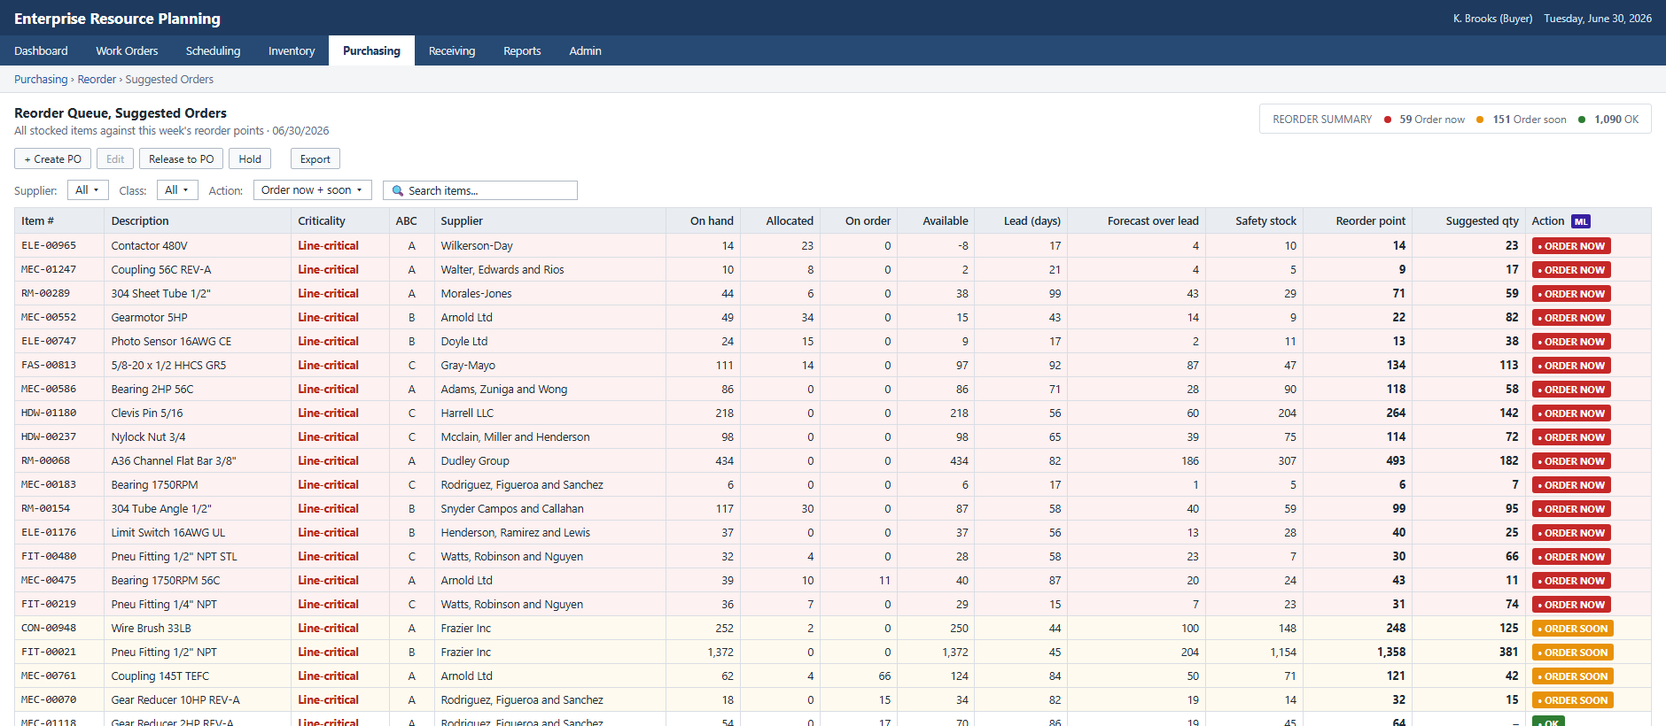
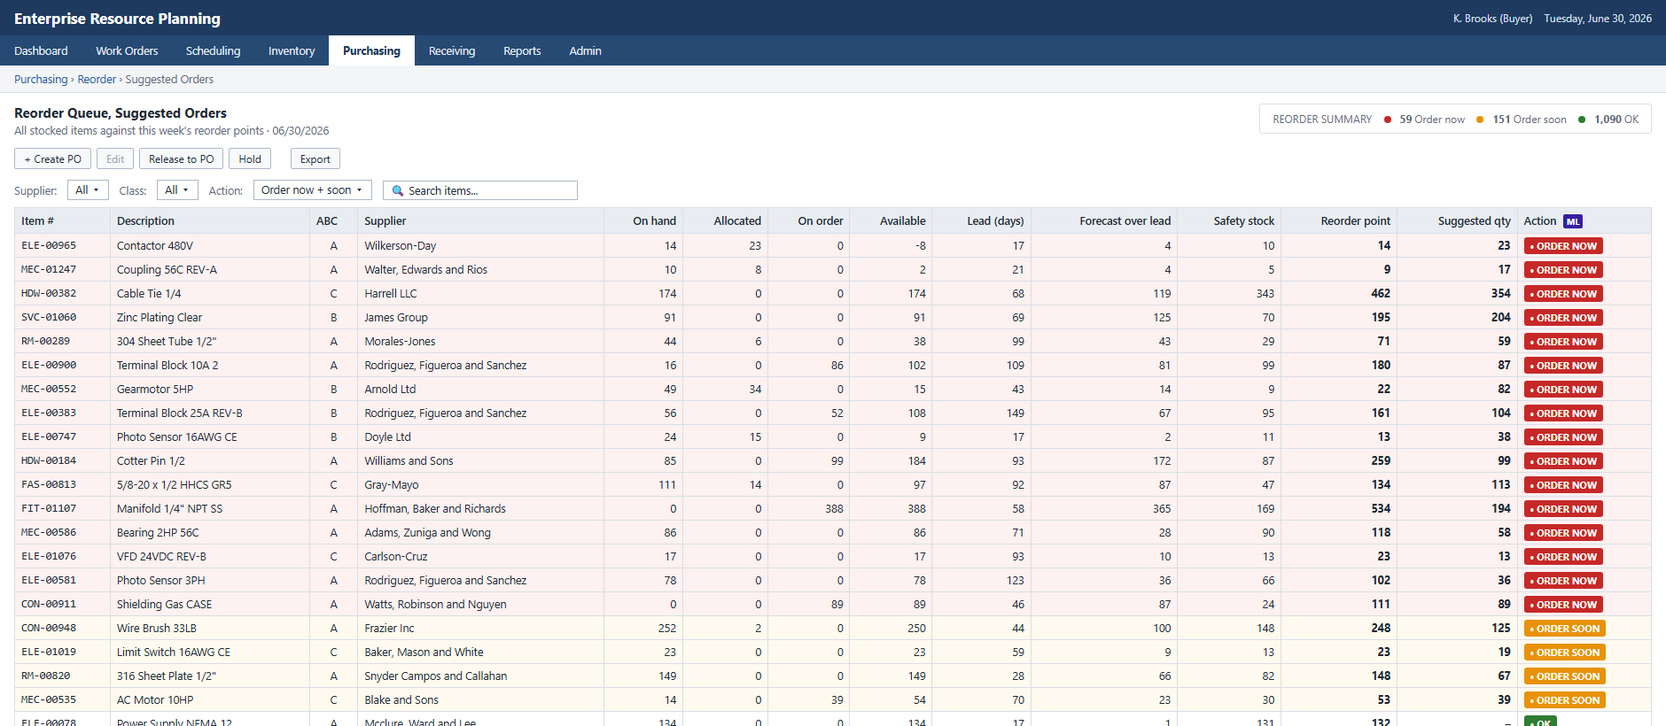
Reorder queue: remove criticality column

diff --git a/docs/index.html b/docs/index.html
@@ -32,7 +32,6 @@
   .badge { color:#fff; font-weight:700; font-size:11px; padding:2px 7px; border-radius:3px; }
   .tag { display:inline-block; border:1px solid #9FB3CC; color:#2458A6; background:#EEF4FB; border-radius:10px;
           padding:0 7px; margin-right:4px; font-size:11px; }
-  .crit { font-weight:700; color:#B42318; } .crit.svc { color:#B54708; }
   .ml { background:#381FA1; color:#fff; font-size:10px; font-weight:700; padding:1px 4px; border-radius:2px; margin-left:4px; }
 </style></head><body>
 <div class="top"><div class="app">Enterprise Resource Planning</div>
@@ -48,8 +47,8 @@
   <span class="btn">Hold</span><span class="sep"></span><span class="btn">Export</span></div>
 <div class="filters">Supplier: <span class="sel">All &#9662;</span> Class: <span class="sel">All &#9662;</span>
   Action: <span class="sel">Order now + soon &#9662;</span> <span class="sel" style="width:220px;">&#128269; Search items...</span></div>
-<table><thead><tr><th>Item #</th><th>Description</th><th>Criticality</th><th>ABC</th><th>Supplier</th><th class="r">On hand</th>
+<table><thead><tr><th>Item #</th><th>Description</th><th>ABC</th><th>Supplier</th><th class="r">On hand</th>
 <th class="r">Allocated</th><th class="r">On order</th><th class="r">Available</th><th class="r">Lead (days)</th><th class="r">Forecast over lead</th><th class="r">Safety stock</th>
 <th class="r">Reorder point</th><th class="r">Suggested qty</th><th>Action <span class="ml">ML</span></th></tr></thead>
-<tbody><tr style="background:#FDF1F1;"><td class="mono">ELE-00965</td><td>Contactor 480V</td><td><span class="crit">Line-critical</span></td><td class="c">A</td><td>Wilkerson-Day</td><td class="r">14</td><td class="r">23</td><td class="r">0</td><td class="r">-8</td><td class="r">17</td><td class="r">4</td><td class="r">10</td><td class="r"><b>14</b></td><td class="r"><b>23</b></td><td><span class="badge" style="background:#C62828;">&bull; ORDER NOW</span></td></tr><tr style="background:#FDF1F1;"><td class="mono">MEC-01247</td><td>Coupling 56C REV-A</td><td><span class="crit">Line-critical</span></td><td class="c">A</td><td>Walter, Edwards and Rios</td><td class="r">10</td><td class="r">8</td><td class="r">0</td><td class="r">2</td><td class="r">21</td><td class="r">4</td><td class="r">5</td><td class="r"><b>9</b></td><td class="r"><b>17</b></td><td><span class="badge" style="background:#C62828;">&bull; ORDER NOW</span></td></tr><tr style="background:#FDF1F1;"><td class="mono">RM-00289</td><td>304 Sheet Tube 1/2"</td><td><span class="crit">Line-critical</span></td><td class="c">A</td><td>Morales-Jones</td><td class="r">44</td><td class="r">6</td><td class="r">0</td><td class="r">38</td><td class="r">99</td><td class="r">43</td><td class="r">29</td><td class="r"><b>71</b></td><td class="r"><b>59</b></td><td><span class="badge" style="background:#C62828;">&bull; ORDER NOW</span></td></tr><tr style="background:#FDF1F1;"><td class="mono">MEC-00552</td><td>Gearmotor 5HP</td><td><span class="crit">Line-critical</span></td><td class="c">B</td><td>Arnold Ltd</td><td class="r">49</td><td class="r">34</td><td class="r">0</td><td class="r">15</td><td class="r">43</td><td class="r">14</td><td class="r">9</td><td class="r"><b>22</b></td><td class="r"><b>82</b></td><td><span class="badge" style="background:#C62828;">&bull; ORDER NOW</span></td></tr><tr style="background:#FDF1F1;"><td class="mono">ELE-00747</td><td>Photo Sensor 16AWG CE</td><td><span class="crit">Line-critical</span></td><td class="c">B</td><td>Doyle Ltd</td><td class="r">24</td><td class="r">15</td><td class="r">0</td><td class="r">9</td><td class="r">17</td><td class="r">2</td><td class="r">11</td><td class="r"><b>13</b></td><td class="r"><b>38</b></td><td><span class="badge" style="background:#C62828;">&bull; ORDER NOW</span></td></tr><tr style="background:#FDF1F1;"><td class="mono">FAS-00813</td><td>5/8-20 x 1/2 HHCS GR5</td><td><span class="crit">Line-critical</span></td><td class="c">C</td><td>Gray-Mayo</td><td class="r">111</td><td class="r">14</td><td class="r">0</td><td class="r">97</td><td class="r">92</td><td class="r">87</td><td class="r">47</td><td class="r"><b>134</b></td><td class="r"><b>113</b></td><td><span class="badge" style="background:#C62828;">&bull; ORDER NOW</span></td></tr><tr style="background:#FDF1F1;"><td class="mono">MEC-00586</td><td>Bearing 2HP 56C</td><td><span class="crit">Line-critical</span></td><td class="c">A</td><td>Adams, Zuniga and Wong</td><td class="r">86</td><td class="r">0</td><td class="r">0</td><td class="r">86</td><td class="r">71</td><td class="r">28</td><td class="r">90</td><td class="r"><b>118</b></td><td class="r"><b>58</b></td><td><span class="badge" style="background:#C62828;">&bull; ORDER NOW</span></td></tr><tr style="background:#FDF1F1;"><td class="mono">HDW-01180</td><td>Clevis Pin 5/16</td><td><span class="crit">Line-critical</span></td><td class="c">C</td><td>Harrell LLC</td><td class="r">218</td><td class="r">0</td><td class="r">0</td><td class="r">218</td><td class="r">56</td><td class="r">60</td><td class="r">204</td><td class="r"><b>264</b></td><td class="r"><b>142</b></td><td><span class="badge" style="background:#C62828;">&bull; ORDER NOW</span></td></tr><tr style="background:#FDF1F1;"><td class="mono">HDW-00237</td><td>Nylock Nut 3/4</td><td><span class="crit">Line-critical</span></td><td class="c">C</td><td>Mcclain, Miller and Henderson</td><td class="r">98</td><td class="r">0</td><td class="r">0</td><td class="r">98</td><td class="r">65</td><td class="r">39</td><td class="r">75</td><td class="r"><b>114</b></td><td class="r"><b>72</b></td><td><span class="badge" style="background:#C62828;">&bull; ORDER NOW</span></td></tr><tr style="background:#FDF1F1;"><td class="mono">RM-00068</td><td>A36 Channel Flat Bar 3/8"</td><td><span class="crit">Line-critical</span></td><td class="c">A</td><td>Dudley Group</td><td class="r">434</td><td class="r">0</td><td class="r">0</td><td class="r">434</td><td class="r">82</td><td class="r">186</td><td class="r">307</td><td class="r"><b>493</b></td><td class="r"><b>182</b></td><td><span class="badge" style="background:#C62828;">&bull; ORDER NOW</span></td></tr><tr style="background:#FDF1F1;"><td class="mono">MEC-00183</td><td>Bearing 1750RPM</td><td><span class="crit">Line-critical</span></td><td class="c">C</td><td>Rodriguez, Figueroa and Sanchez</td><td class="r">6</td><td class="r">0</td><td class="r">0</td><td class="r">6</td><td class="r">17</td><td class="r">1</td><td class="r">5</td><td class="r"><b>6</b></td><td class="r"><b>7</b></td><td><span class="badge" style="background:#C62828;">&bull; ORDER NOW</span></td></tr><tr style="background:#FDF1F1;"><td class="mono">RM-00154</td><td>304 Tube Angle 1/2"</td><td><span class="crit">Line-critical</span></td><td class="c">B</td><td>Snyder Campos and Callahan</td><td class="r">117</td><td class="r">30</td><td class="r">0</td><td class="r">87</td><td class="r">58</td><td class="r">40</td><td class="r">59</td><td class="r"><b>99</b></td><td class="r"><b>95</b></td><td><span class="badge" style="background:#C62828;">&bull; ORDER NOW</span></td></tr><tr style="background:#FDF1F1;"><td class="mono">ELE-01176</td><td>Limit Switch 16AWG UL</td><td><span class="crit">Line-critical</span></td><td class="c">B</td><td>Henderson, Ramirez and Lewis</td><td class="r">37</td><td class="r">0</td><td class="r">0</td><td class="r">37</td><td class="r">56</td><td class="r">13</td><td class="r">28</td><td class="r"><b>40</b></td><td class="r"><b>25</b></td><td><span class="badge" style="background:#C62828;">&bull; ORDER NOW</span></td></tr><tr style="background:#FDF1F1;"><td class="mono">FIT-00480</td><td>Pneu Fitting 1/2" NPT STL</td><td><span class="crit">Line-critical</span></td><td class="c">C</td><td>Watts, Robinson and Nguyen</td><td class="r">32</td><td class="r">4</td><td class="r">0</td><td class="r">28</td><td class="r">58</td><td class="r">23</td><td class="r">7</td><td class="r"><b>30</b></td><td class="r"><b>66</b></td><td><span class="badge" style="background:#C62828;">&bull; ORDER NOW</span></td></tr><tr style="background:#FDF1F1;"><td class="mono">MEC-00475</td><td>Bearing 1750RPM 56C</td><td><span class="crit">Line-critical</span></td><td class="c">A</td><td>Arnold Ltd</td><td class="r">39</td><td class="r">10</td><td class="r">11</td><td class="r">40</td><td class="r">87</td><td class="r">20</td><td class="r">24</td><td class="r"><b>43</b></td><td class="r"><b>11</b></td><td><span class="badge" style="background:#C62828;">&bull; ORDER NOW</span></td></tr><tr style="background:#FDF1F1;"><td class="mono">FIT-00219</td><td>Pneu Fitting 1/4" NPT</td><td><span class="crit">Line-critical</span></td><td class="c">C</td><td>Watts, Robinson and Nguyen</td><td class="r">36</td><td class="r">7</td><td class="r">0</td><td class="r">29</td><td class="r">15</td><td class="r">7</td><td class="r">23</td><td class="r"><b>31</b></td><td class="r"><b>74</b></td><td><span class="badge" style="background:#C62828;">&bull; ORDER NOW</span></td></tr><tr style="background:#FFFAEF;"><td class="mono">CON-00948</td><td>Wire Brush 33LB</td><td><span class="crit">Line-critical</span></td><td class="c">A</td><td>Frazier Inc</td><td class="r">252</td><td class="r">2</td><td class="r">0</td><td class="r">250</td><td class="r">44</td><td class="r">100</td><td class="r">148</td><td class="r"><b>248</b></td><td class="r"><b>125</b></td><td><span class="badge" style="background:#E8920A;">&bull; ORDER SOON</span></td></tr><tr style="background:#FFFAEF;"><td class="mono">FIT-00021</td><td>Pneu Fitting 1/2" NPT</td><td><span class="crit">Line-critical</span></td><td class="c">B</td><td>Frazier Inc</td><td class="r">1,372</td><td class="r">0</td><td class="r">0</td><td class="r">1,372</td><td class="r">45</td><td class="r">204</td><td class="r">1,154</td><td class="r"><b>1,358</b></td><td class="r"><b>381</b></td><td><span class="badge" style="background:#E8920A;">&bull; ORDER SOON</span></td></tr><tr style="background:#FFFAEF;"><td class="mono">MEC-00761</td><td>Coupling 145T TEFC</td><td><span class="crit">Line-critical</span></td><td class="c">A</td><td>Arnold Ltd</td><td class="r">62</td><td class="r">4</td><td class="r">66</td><td class="r">124</td><td class="r">84</td><td class="r">50</td><td class="r">71</td><td class="r"><b>121</b></td><td class="r"><b>42</b></td><td><span class="badge" style="background:#E8920A;">&bull; ORDER SOON</span></td></tr><tr style="background:#FFFAEF;"><td class="mono">MEC-00070</td><td>Gear Reducer 10HP REV-A</td><td><span class="crit">Line-critical</span></td><td class="c">A</td><td>Rodriguez, Figueroa and Sanchez</td><td class="r">18</td><td class="r">0</td><td class="r">15</td><td class="r">34</td><td class="r">82</td><td class="r">19</td><td class="r">14</td><td class="r"><b>32</b></td><td class="r"><b>15</b></td><td><span class="badge" style="background:#E8920A;">&bull; ORDER SOON</span></td></tr><tr style="background:#FFFFFF;"><td class="mono">MEC-01118</td><td>Gear Reducer 2HP REV-A</td><td><span class="crit">Line-critical</span></td><td class="c">A</td><td>Rodriguez, Figueroa and Sanchez</td><td class="r">54</td><td class="r">0</td><td class="r">17</td><td class="r">70</td><td class="r">86</td><td class="r">19</td><td class="r">45</td><td class="r"><b>64</b></td><td class="r"><b>&ndash;</b></td><td><span class="badge" style="background:#2E7D32;">&bull; OK</span></td></tr><tr style="background:#FFFFFF;"><td class="mono">HDW-00213</td><td>Cotter Pin 3/8</td><td><span class="crit">Line-critical</span></td><td class="c">C</td><td>Williams and Sons</td><td class="r">125</td><td class="r">0</td><td class="r">0</td><td class="r">125</td><td class="r">60</td><td class="r">59</td><td class="r">52</td><td class="r"><b>111</b></td><td class="r"><b>&ndash;</b></td><td><span class="badge" style="background:#2E7D32;">&bull; OK</span></td></tr></tbody></table>
+<tbody><tr style="background:#FDF1F1;"><td class="mono">ELE-00965</td><td>Contactor 480V</td><td class="c">A</td><td>Wilkerson-Day</td><td class="r">14</td><td class="r">23</td><td class="r">0</td><td class="r">-8</td><td class="r">17</td><td class="r">4</td><td class="r">10</td><td class="r"><b>14</b></td><td class="r"><b>23</b></td><td><span class="badge" style="background:#C62828;">&bull; ORDER NOW</span></td></tr><tr style="background:#FDF1F1;"><td class="mono">MEC-01247</td><td>Coupling 56C REV-A</td><td class="c">A</td><td>Walter, Edwards and Rios</td><td class="r">10</td><td class="r">8</td><td class="r">0</td><td class="r">2</td><td class="r">21</td><td class="r">4</td><td class="r">5</td><td class="r"><b>9</b></td><td class="r"><b>17</b></td><td><span class="badge" style="background:#C62828;">&bull; ORDER NOW</span></td></tr><tr style="background:#FDF1F1;"><td class="mono">HDW-00382</td><td>Cable Tie 1/4</td><td class="c">C</td><td>Harrell LLC</td><td class="r">174</td><td class="r">0</td><td class="r">0</td><td class="r">174</td><td class="r">68</td><td class="r">119</td><td class="r">343</td><td class="r"><b>462</b></td><td class="r"><b>354</b></td><td><span class="badge" style="background:#C62828;">&bull; ORDER NOW</span></td></tr><tr style="background:#FDF1F1;"><td class="mono">SVC-01060</td><td>Zinc Plating Clear</td><td class="c">B</td><td>James Group</td><td class="r">91</td><td class="r">0</td><td class="r">0</td><td class="r">91</td><td class="r">69</td><td class="r">125</td><td class="r">70</td><td class="r"><b>195</b></td><td class="r"><b>204</b></td><td><span class="badge" style="background:#C62828;">&bull; ORDER NOW</span></td></tr><tr style="background:#FDF1F1;"><td class="mono">RM-00289</td><td>304 Sheet Tube 1/2"</td><td class="c">A</td><td>Morales-Jones</td><td class="r">44</td><td class="r">6</td><td class="r">0</td><td class="r">38</td><td class="r">99</td><td class="r">43</td><td class="r">29</td><td class="r"><b>71</b></td><td class="r"><b>59</b></td><td><span class="badge" style="background:#C62828;">&bull; ORDER NOW</span></td></tr><tr style="background:#FDF1F1;"><td class="mono">ELE-00900</td><td>Terminal Block 10A 2</td><td class="c">A</td><td>Rodriguez, Figueroa and Sanchez</td><td class="r">16</td><td class="r">0</td><td class="r">86</td><td class="r">102</td><td class="r">109</td><td class="r">81</td><td class="r">99</td><td class="r"><b>180</b></td><td class="r"><b>87</b></td><td><span class="badge" style="background:#C62828;">&bull; ORDER NOW</span></td></tr><tr style="background:#FDF1F1;"><td class="mono">MEC-00552</td><td>Gearmotor 5HP</td><td class="c">B</td><td>Arnold Ltd</td><td class="r">49</td><td class="r">34</td><td class="r">0</td><td class="r">15</td><td class="r">43</td><td class="r">14</td><td class="r">9</td><td class="r"><b>22</b></td><td class="r"><b>82</b></td><td><span class="badge" style="background:#C62828;">&bull; ORDER NOW</span></td></tr><tr style="background:#FDF1F1;"><td class="mono">ELE-00383</td><td>Terminal Block 25A REV-B</td><td class="c">B</td><td>Rodriguez, Figueroa and Sanchez</td><td class="r">56</td><td class="r">0</td><td class="r">52</td><td class="r">108</td><td class="r">149</td><td class="r">67</td><td class="r">95</td><td class="r"><b>161</b></td><td class="r"><b>104</b></td><td><span class="badge" style="background:#C62828;">&bull; ORDER NOW</span></td></tr><tr style="background:#FDF1F1;"><td class="mono">ELE-00747</td><td>Photo Sensor 16AWG CE</td><td class="c">B</td><td>Doyle Ltd</td><td class="r">24</td><td class="r">15</td><td class="r">0</td><td class="r">9</td><td class="r">17</td><td class="r">2</td><td class="r">11</td><td class="r"><b>13</b></td><td class="r"><b>38</b></td><td><span class="badge" style="background:#C62828;">&bull; ORDER NOW</span></td></tr><tr style="background:#FDF1F1;"><td class="mono">HDW-00184</td><td>Cotter Pin 1/2</td><td class="c">A</td><td>Williams and Sons</td><td class="r">85</td><td class="r">0</td><td class="r">99</td><td class="r">184</td><td class="r">93</td><td class="r">172</td><td class="r">87</td><td class="r"><b>259</b></td><td class="r"><b>99</b></td><td><span class="badge" style="background:#C62828;">&bull; ORDER NOW</span></td></tr><tr style="background:#FDF1F1;"><td class="mono">FAS-00813</td><td>5/8-20 x 1/2 HHCS GR5</td><td class="c">C</td><td>Gray-Mayo</td><td class="r">111</td><td class="r">14</td><td class="r">0</td><td class="r">97</td><td class="r">92</td><td class="r">87</td><td class="r">47</td><td class="r"><b>134</b></td><td class="r"><b>113</b></td><td><span class="badge" style="background:#C62828;">&bull; ORDER NOW</span></td></tr><tr style="background:#FDF1F1;"><td class="mono">FIT-01107</td><td>Manifold 1/4" NPT SS</td><td class="c">A</td><td>Hoffman, Baker and Richards</td><td class="r">0</td><td class="r">0</td><td class="r">388</td><td class="r">388</td><td class="r">58</td><td class="r">365</td><td class="r">169</td><td class="r"><b>534</b></td><td class="r"><b>194</b></td><td><span class="badge" style="background:#C62828;">&bull; ORDER NOW</span></td></tr><tr style="background:#FDF1F1;"><td class="mono">MEC-00586</td><td>Bearing 2HP 56C</td><td class="c">A</td><td>Adams, Zuniga and Wong</td><td class="r">86</td><td class="r">0</td><td class="r">0</td><td class="r">86</td><td class="r">71</td><td class="r">28</td><td class="r">90</td><td class="r"><b>118</b></td><td class="r"><b>58</b></td><td><span class="badge" style="background:#C62828;">&bull; ORDER NOW</span></td></tr><tr style="background:#FDF1F1;"><td class="mono">ELE-01076</td><td>VFD 24VDC REV-B</td><td class="c">C</td><td>Carlson-Cruz</td><td class="r">17</td><td class="r">0</td><td class="r">0</td><td class="r">17</td><td class="r">93</td><td class="r">10</td><td class="r">13</td><td class="r"><b>23</b></td><td class="r"><b>13</b></td><td><span class="badge" style="background:#C62828;">&bull; ORDER NOW</span></td></tr><tr style="background:#FDF1F1;"><td class="mono">ELE-00581</td><td>Photo Sensor 3PH</td><td class="c">A</td><td>Rodriguez, Figueroa and Sanchez</td><td class="r">78</td><td class="r">0</td><td class="r">0</td><td class="r">78</td><td class="r">123</td><td class="r">36</td><td class="r">66</td><td class="r"><b>102</b></td><td class="r"><b>36</b></td><td><span class="badge" style="background:#C62828;">&bull; ORDER NOW</span></td></tr><tr style="background:#FDF1F1;"><td class="mono">CON-00911</td><td>Shielding Gas CASE</td><td class="c">A</td><td>Watts, Robinson and Nguyen</td><td class="r">0</td><td class="r">0</td><td class="r">89</td><td class="r">89</td><td class="r">46</td><td class="r">87</td><td class="r">24</td><td class="r"><b>111</b></td><td class="r"><b>89</b></td><td><span class="badge" style="background:#C62828;">&bull; ORDER NOW</span></td></tr><tr style="background:#FFFAEF;"><td class="mono">CON-00948</td><td>Wire Brush 33LB</td><td class="c">A</td><td>Frazier Inc</td><td class="r">252</td><td class="r">2</td><td class="r">0</td><td class="r">250</td><td class="r">44</td><td class="r">100</td><td class="r">148</td><td class="r"><b>248</b></td><td class="r"><b>125</b></td><td><span class="badge" style="background:#E8920A;">&bull; ORDER SOON</span></td></tr><tr style="background:#FFFAEF;"><td class="mono">ELE-01019</td><td>Limit Switch 16AWG CE</td><td class="c">C</td><td>Baker, Mason and White</td><td class="r">23</td><td class="r">0</td><td class="r">0</td><td class="r">23</td><td class="r">59</td><td class="r">9</td><td class="r">13</td><td class="r"><b>23</b></td><td class="r"><b>19</b></td><td><span class="badge" style="background:#E8920A;">&bull; ORDER SOON</span></td></tr><tr style="background:#FFFAEF;"><td class="mono">RM-00820</td><td>316 Sheet Plate 1/2"</td><td class="c">A</td><td>Snyder Campos and Callahan</td><td class="r">149</td><td class="r">0</td><td class="r">0</td><td class="r">149</td><td class="r">28</td><td class="r">66</td><td class="r">82</td><td class="r"><b>148</b></td><td class="r"><b>67</b></td><td><span class="badge" style="background:#E8920A;">&bull; ORDER SOON</span></td></tr><tr style="background:#FFFAEF;"><td class="mono">MEC-00535</td><td>AC Motor 10HP</td><td class="c">C</td><td>Blake and Sons</td><td class="r">14</td><td class="r">0</td><td class="r">39</td><td class="r">54</td><td class="r">70</td><td class="r">23</td><td class="r">30</td><td class="r"><b>53</b></td><td class="r"><b>39</b></td><td><span class="badge" style="background:#E8920A;">&bull; ORDER SOON</span></td></tr><tr style="background:#FFFFFF;"><td class="mono">ELE-00078</td><td>Power Supply NEMA 12</td><td class="c">A</td><td>Mcclure, Ward and Lee</td><td class="r">134</td><td class="r">0</td><td class="r">0</td><td class="r">134</td><td class="r">17</td><td class="r">1</td><td class="r">131</td><td class="r"><b>132</b></td><td class="r"><b>&ndash;</b></td><td><span class="badge" style="background:#2E7D32;">&bull; OK</span></td></tr><tr style="background:#FFFFFF;"><td class="mono">FIT-00880</td><td>Flow Control 3/8" NPT STL</td><td class="c">C</td><td>Watts, Robinson and Nguyen</td><td class="r">42</td><td class="r">0</td><td class="r">0</td><td class="r">42</td><td class="r">22</td><td class="r">1</td><td class="r">39</td><td class="r"><b>40</b></td><td class="r"><b>&ndash;</b></td><td><span class="badge" style="background:#2E7D32;">&bull; OK</span></td></tr></tbody></table>
 </body></html>

diff --git a/index.html b/index.html
@@ -49,7 +49,7 @@
 
     <a class="card primary" href="docs/index.html">
       <div class="row"><span class="num">01</span><span class="title">ERP Reorder Queue</span><span class="tag">Primary deliverable</span></div>
-      <div class="desc">The demand model embedded in the ERP's purchasing screen: each item's stock position, forecast usage over its lead time, safety stock, reorder point and suggested order quantity, with its criticality, ranked by urgency.</div>
+      <div class="desc">The demand model embedded in the ERP's purchasing screen: each item's stock position, forecast usage over its lead time, safety stock, reorder point and suggested order quantity, ranked by urgency.</div>
       <div class="open">Open &rarr;</div>
     </a>
 

diff --git a/ml/reports/generate_reorder_queue.py b/ml/reports/generate_reorder_queue.py
@@ -78,7 +78,6 @@ def build_queue():
     bom_fixed = set(bom["component_item"].map(canon))
     restored = set(ft.loc[ft["confirmation"] == "confirmed", "probable_item_number"].dropna().map(canon))
 
-    tier = sched.get("criticality", {})
     rows = []
     for item, entries in sched["items"].items():
         if item not in attrs.index:
@@ -115,20 +114,14 @@ def build_queue():
         flags = [f for f, on in (("Merged record", item in merged), ("Lead time corrected", item in lead_fixed),
                                  ("BOM corrected", item in bom_fixed), ("History restored", item in restored)) if on]
         rows.append({"item": item, "desc": im["description"].get(item, ""), "abc": a["abc"], "supplier": sname,
-                     "tier": tier.get(item, "standard"),
                      "on_hand": oh, "on_order": oo, "alloc": need, "avail": position, "lead": lt, "fc_lead": fc_lead,
                      "ss": float(ss), "rop": float(level),
                      "suggested": suggested, "status": status, "cover": cover, "cost": float(a["standard_cost"]),
                      "flags": flags})
     q = pd.DataFrame(rows)
     q["rank"] = q["status"].map({"ORDER NOW": 0, "ORDER SOON": 1, "OK": 2})
-    q["trank"] = q["tier"].map({"line": 0, "service": 1, "standard": 2})
     q["gap"] = (q["avail"] - q["rop"]) / q["rop"].clip(lower=1)
-    return q.sort_values(["rank", "trank", "gap"]).reset_index(drop=True)
-
-
-TIER_LABEL = {"line": '<span class="crit">Line-critical</span>', "service": '<span class="crit svc">Service</span>',
-              "standard": '<span style="color:#5F6B7A;">Standard</span>'}
+    return q.sort_values(["rank", "gap"]).reset_index(drop=True)
 
 
 def _fmt(x):
@@ -147,7 +140,7 @@ def render(q):
         tags = "".join(f'<span class="tag">{f}</span>' for f in r.flags)
         trs.append(
             f'<tr style="background:{rowbg[r.status]};">'
-            f'<td class="mono">{r.item}</td><td>{r.desc}</td><td>{TIER_LABEL[r.tier]}</td><td class="c">{r.abc}</td><td>{r.supplier}</td>'
+            f'<td class="mono">{r.item}</td><td>{r.desc}</td><td class="c">{r.abc}</td><td>{r.supplier}</td>'
             f'<td class="r">{_fmt(r.on_hand)}</td><td class="r">{_fmt(r.alloc)}</td><td class="r">{_fmt(r.on_order)}</td>'
             f'<td class="r">{_fmt(r.avail)}</td><td class="r">{r.lead:.0f}</td>'
             f'<td class="r">{_fmt(r.fc_lead)}</td><td class="r">{_fmt(r.ss)}</td><td class="r"><b>{_fmt(r.rop)}</b></td>'
@@ -190,7 +183,6 @@ def render(q):
   .badge {{ color:#fff; font-weight:700; font-size:11px; padding:2px 7px; border-radius:3px; }}
   .tag {{ display:inline-block; border:1px solid #9FB3CC; color:#2458A6; background:#EEF4FB; border-radius:10px;
           padding:0 7px; margin-right:4px; font-size:11px; }}
-  .crit {{ font-weight:700; color:#B42318; }} .crit.svc {{ color:#B54708; }}
   .ml {{ background:{BLUE}; color:#fff; font-size:10px; font-weight:700; padding:1px 4px; border-radius:2px; margin-left:4px; }}
 </style></head><body>
 <div class="top"><div class="app">Enterprise Resource Planning</div>
@@ -206,7 +198,7 @@ def render(q):
   <span class="btn">Hold</span><span class="sep"></span><span class="btn">Export</span></div>
 <div class="filters">Supplier: <span class="sel">All &#9662;</span> Class: <span class="sel">All &#9662;</span>
   Action: <span class="sel">Order now + soon &#9662;</span> <span class="sel" style="width:220px;">&#128269; Search items...</span></div>
-<table><thead><tr><th>Item #</th><th>Description</th><th>Criticality</th><th>ABC</th><th>Supplier</th><th class="r">On hand</th>
+<table><thead><tr><th>Item #</th><th>Description</th><th>ABC</th><th>Supplier</th><th class="r">On hand</th>
 <th class="r">Allocated</th><th class="r">On order</th><th class="r">Available</th><th class="r">Lead (days)</th><th class="r">Forecast over lead</th><th class="r">Safety stock</th>
 <th class="r">Reorder point</th><th class="r">Suggested qty</th><th>Action <span class="ml">ML</span></th></tr></thead>
 <tbody>{''.join(trs)}</tbody></table>

diff --git a/README.md b/README.md
@@ -32,7 +32,7 @@ The model has set every reorder decision since January 2026. As a result, the sh
 
 | # | Deliverable | What it is | Links |
 |---|---|---|---|
-| 1 | ERP reorder queue | The demand model embedded in the ERP's purchasing screen: each item's on-hand, allocated, on-order and available stock, forecast usage over its lead time, safety stock, reorder point and suggested order quantity, with its criticality, ranked by urgency. | [View](https://brimsystems.github.io/mfg-demand-forecasting/docs/index.html) |
+| 1 | ERP reorder queue | The demand model embedded in the ERP's purchasing screen: each item's on-hand, allocated, on-order and available stock, forecast usage over its lead time, safety stock, reorder point and suggested order quantity, ranked by urgency. | [View](https://brimsystems.github.io/mfg-demand-forecasting/docs/index.html) |
 | 2 | Data quality audit | Every type of error found across the ERP's master and transaction tables, its scale, the remediation performed and its evidence, the before-and-after results, and the process changes that stop each error recurring. | [View](https://brimsystems.github.io/mfg-demand-forecasting/docs/reports/data_quality_audit.html) |
 | 3 | ML model overview & performance report | A high-level summary of the model: what it does, the usage it learns from, how it sets each reorder, and its results against 2025 and the status quo. | [View](https://brimsystems.github.io/mfg-demand-forecasting/docs/reports/model_overview.html) |
 | 4 | ML technical report | The model card, training data and time-based split, model selection and performance, SHAP feature importance, the rules that turn a forecast into a reorder decision, known limitations, and deployment. | [View](https://brimsystems.github.io/mfg-demand-forecasting/docs/reports/technical_report.html) |
